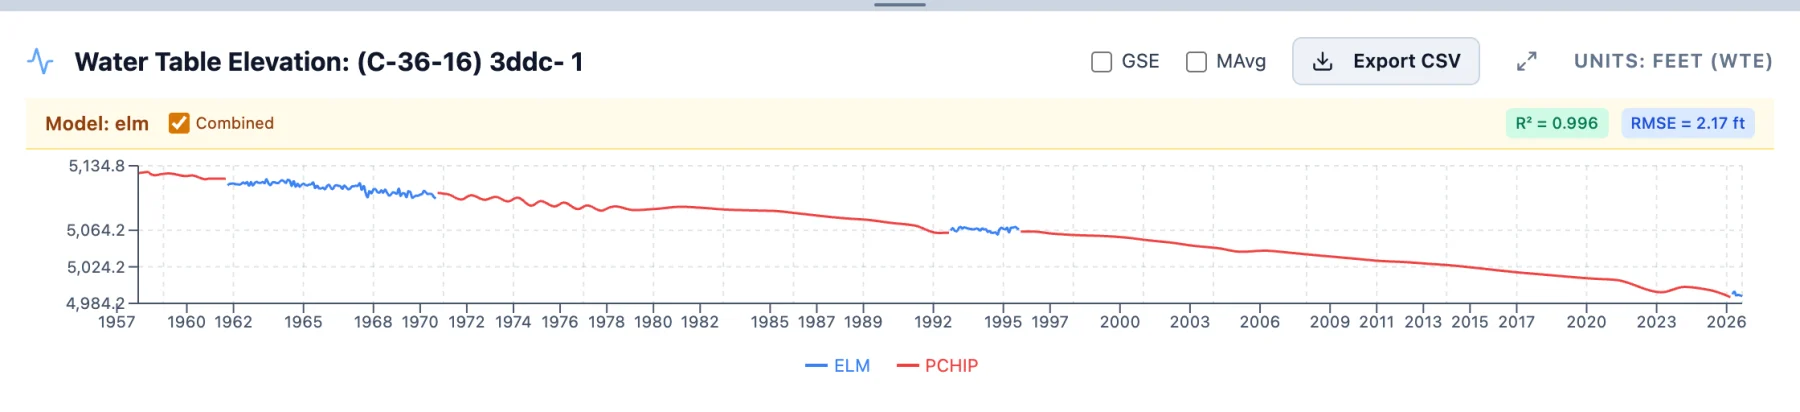
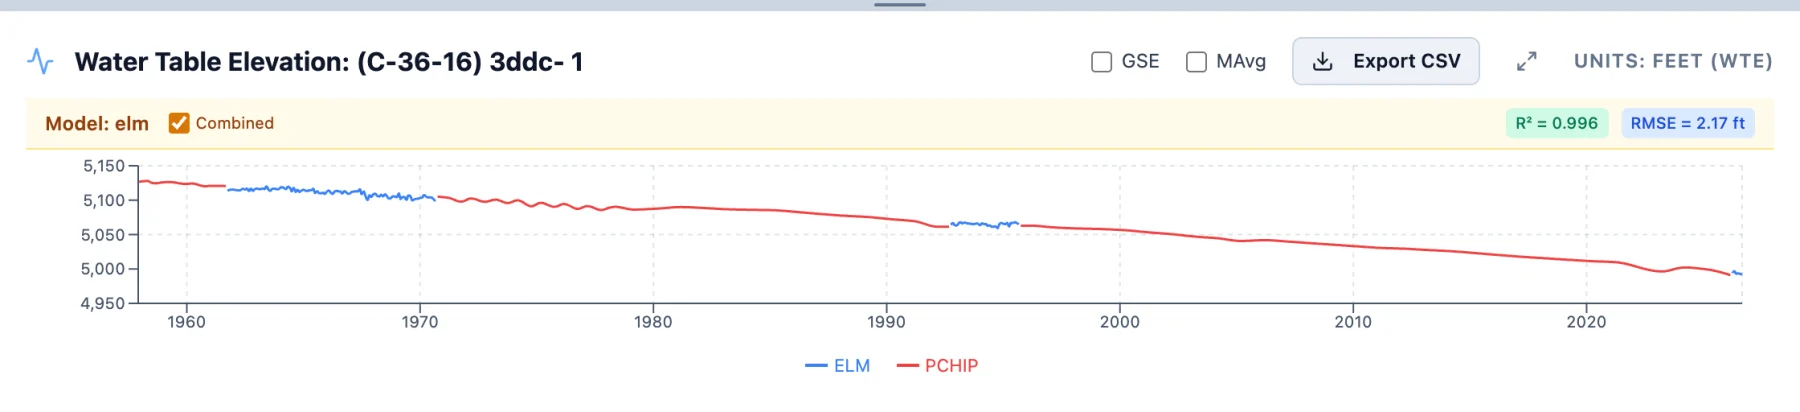
Part 4: a rerun's new values come from the ELM's random weights
Different values between runs follow from how an ELM works: its hidden
weights are drawn at random and never trained, so each run is a new model.
The gaps page says so where it introduces the ELM, in place of listing it
under the limits; the method page's section is now "Each run draws new
weights", and the results page links to it.

The two model chart screenshots are retaken with the chart's new axes
(year ticks every ten years, round y values).

Claude-Session: https://claude.ai/code/session_01Vb5FMgUjLz9pmhJvE6MAsm

diff --git a/docs/aquiferx/imputation/gaps.en.md b/docs/aquiferx/imputation/gaps.en.md
@@ -24,6 +24,11 @@ than a limit you set, two years to start with, and before a well's first reading
 the well: an extreme learning machine (ELM), a kind of neural network that trains in a single step. Each well gets its own, trained on
 the well's record to relate its water level to soil moisture in the aquifer's area, the year and the month.
 
+An ELM trains in one step because the weights of its hidden layer are drawn at random and only its output is fitted. Each run draws
+new weights and so builds a new model of each well. Two runs give the same values in the months that follow PCHIP and different values
+in the gaps: between two runs on Escalante, half the wells changed by more than 2.5 ft somewhere in their gaps, and one in ten by more
+than 12 ft.
+
 The series are saved together as a model of the aquifer, which you can open on the chart (see [Reading the Results](results.md)) and
 use in place of the readings for water table maps (Part 5). In Escalante the model covers 159 wells, and almost three quarters of
 their months come from the ELM. The approach is that of Evans et al. (2020), who filled well records with an
@@ -46,8 +51,6 @@ after its last, the model stretches a relationship learned from other years, som
   [How the Model Works](method.md#the-fit-statistics)), and with 500 hidden units it can follow even a short record closely: in
   Escalante the median R² is 0.955. They tell you how closely the model follows the record, and
   nothing about its values in the gaps.
-- **Runs differ.** The model starts from random weights, so a second run gives different values in the gaps. Between two runs on
-  Escalante, half the wells changed by more than 2.5 ft somewhere in their gaps, and one in ten by more than 12 ft.
 - **The series can step.** Where it passes from PCHIP to the model, or back, the two rarely meet exactly. In Escalante half of these
   steps are under 1.3 ft, one in ten is over 7.5 ft, and the largest is 31 ft.
 - **The model is jumpy.** Each month's value comes from that month's inputs alone, so it moves about twice as much from one month to

diff --git a/docs/aquiferx/imputation/method.en.md b/docs/aquiferx/imputation/method.en.md
@@ -128,11 +128,12 @@ They measure how closely the model reproduces the months it learned from. With 5
 closely: in Escalante, the 44 wells with fewer than two years of training months have a median R² of 0.93, and a well trained on
 6 months reaches 0.93 with an RMSE of 0.03 ft. A high R² says little about the values in the gaps.
 
-## Runs differ
+## Each run draws new weights
 
-**W** and **b** are drawn afresh in every run, so the same aquifer and settings give somewhat different values in the gaps, and
-slightly different R² and RMSE. Between two runs on Escalante, the median change in a gap month was 0.2 ft; the largest change at each
-well was over 2.5 ft at half the wells and over 12 ft at one in ten.
+An ELM draws **W** and **b** at random and never adjusts them; only **β** is fitted, in one step. Every run draws them afresh, so the
+same aquifer and settings give a different model of each well, with somewhat different values in the gaps and slightly different R²
+and RMSE. Between two runs on Escalante, the median change in a gap month was 0.2 ft; the largest change at each well was over
+2.5 ft at half the wells and over 12 ft at one in ten.
 
 ## References
 

diff --git a/docs/aquiferx/imputation/results.en.md b/docs/aquiferx/imputation/results.en.md
@@ -74,5 +74,6 @@ in the Utah sample was made this way with a 12-month moving average. Part 5 cove
 - A high R² is easy to reach and says little about the gaps. A well trained on a few months can score above 0.9.
 - Values before a well's first reading and after its last are the model extended beyond the record, sometimes by decades. They carry
   the soil moisture and seasonal pattern of the well's measured years, and miss anything else that changed.
-- A second run gives somewhat different values in the gaps. For a result you will report, compare two runs, or keep the model you used
-  with the results.
+- Each run draws new random weights (see [How the Model Works](method.md#each-run-draws-new-weights)), so a second run gives somewhat
+  different values in the gaps. Comparing two runs shows how much a gap's values depend on the draw. For a result you will report,
+  keep the model you used with it.
